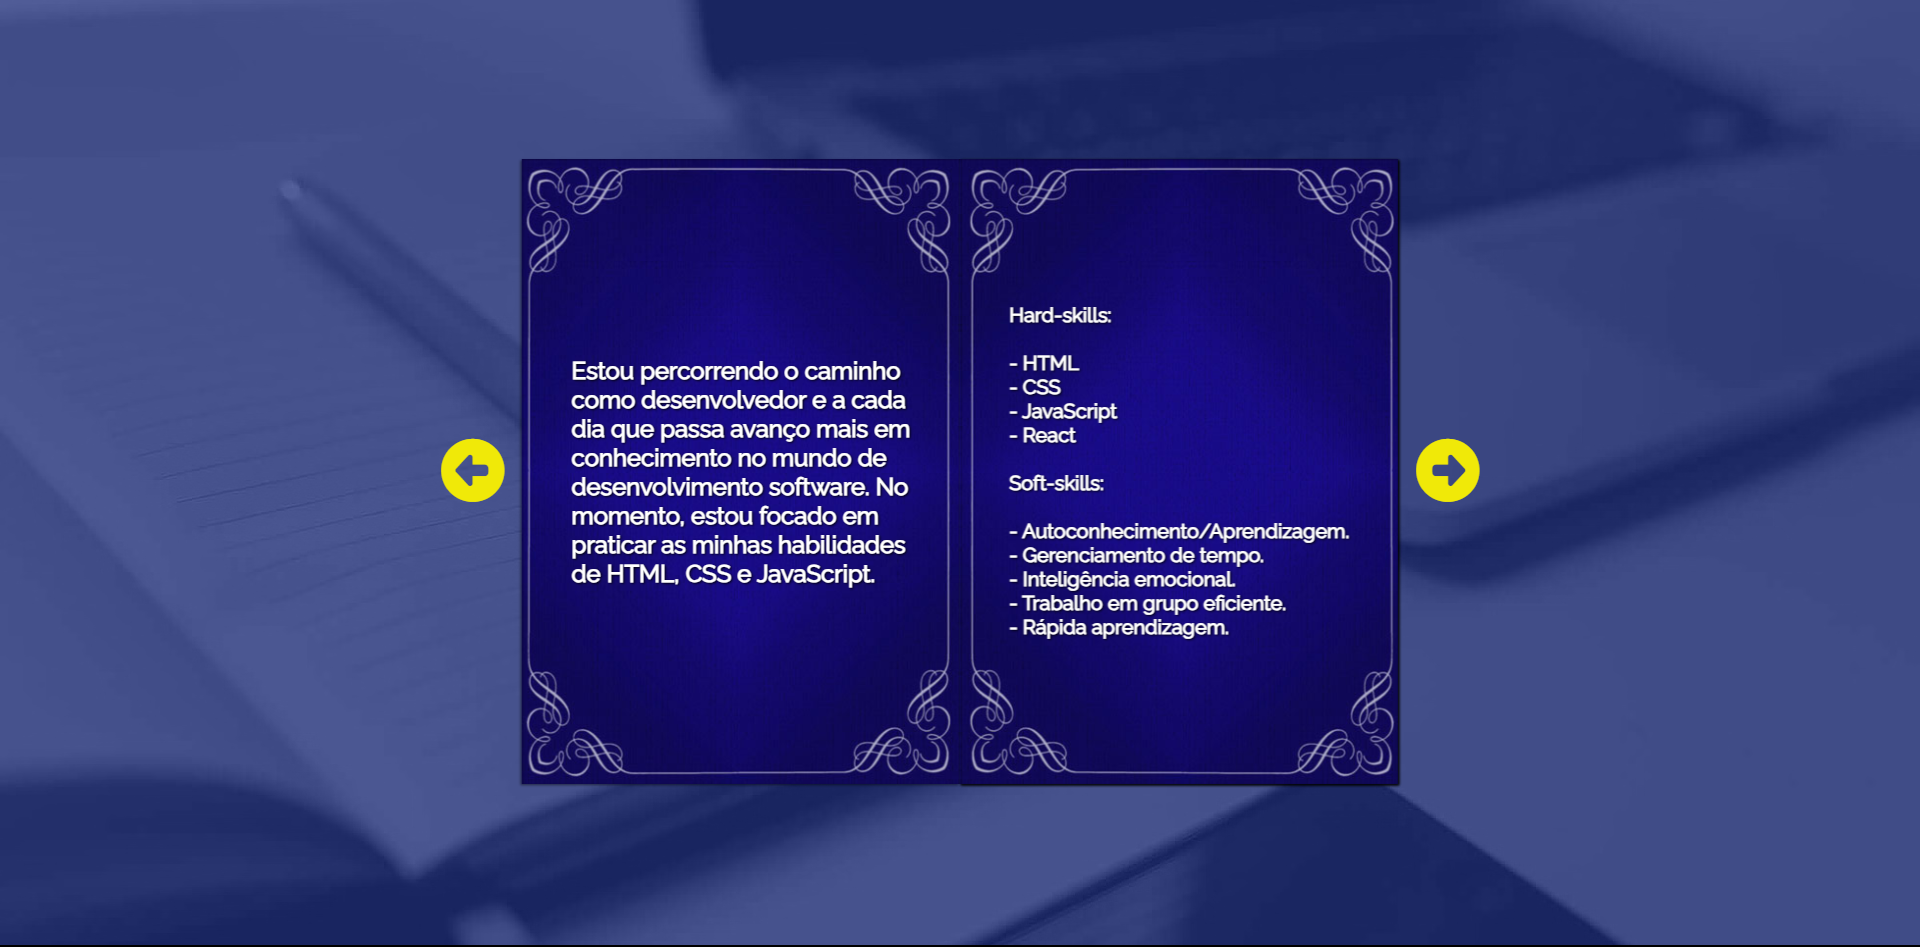
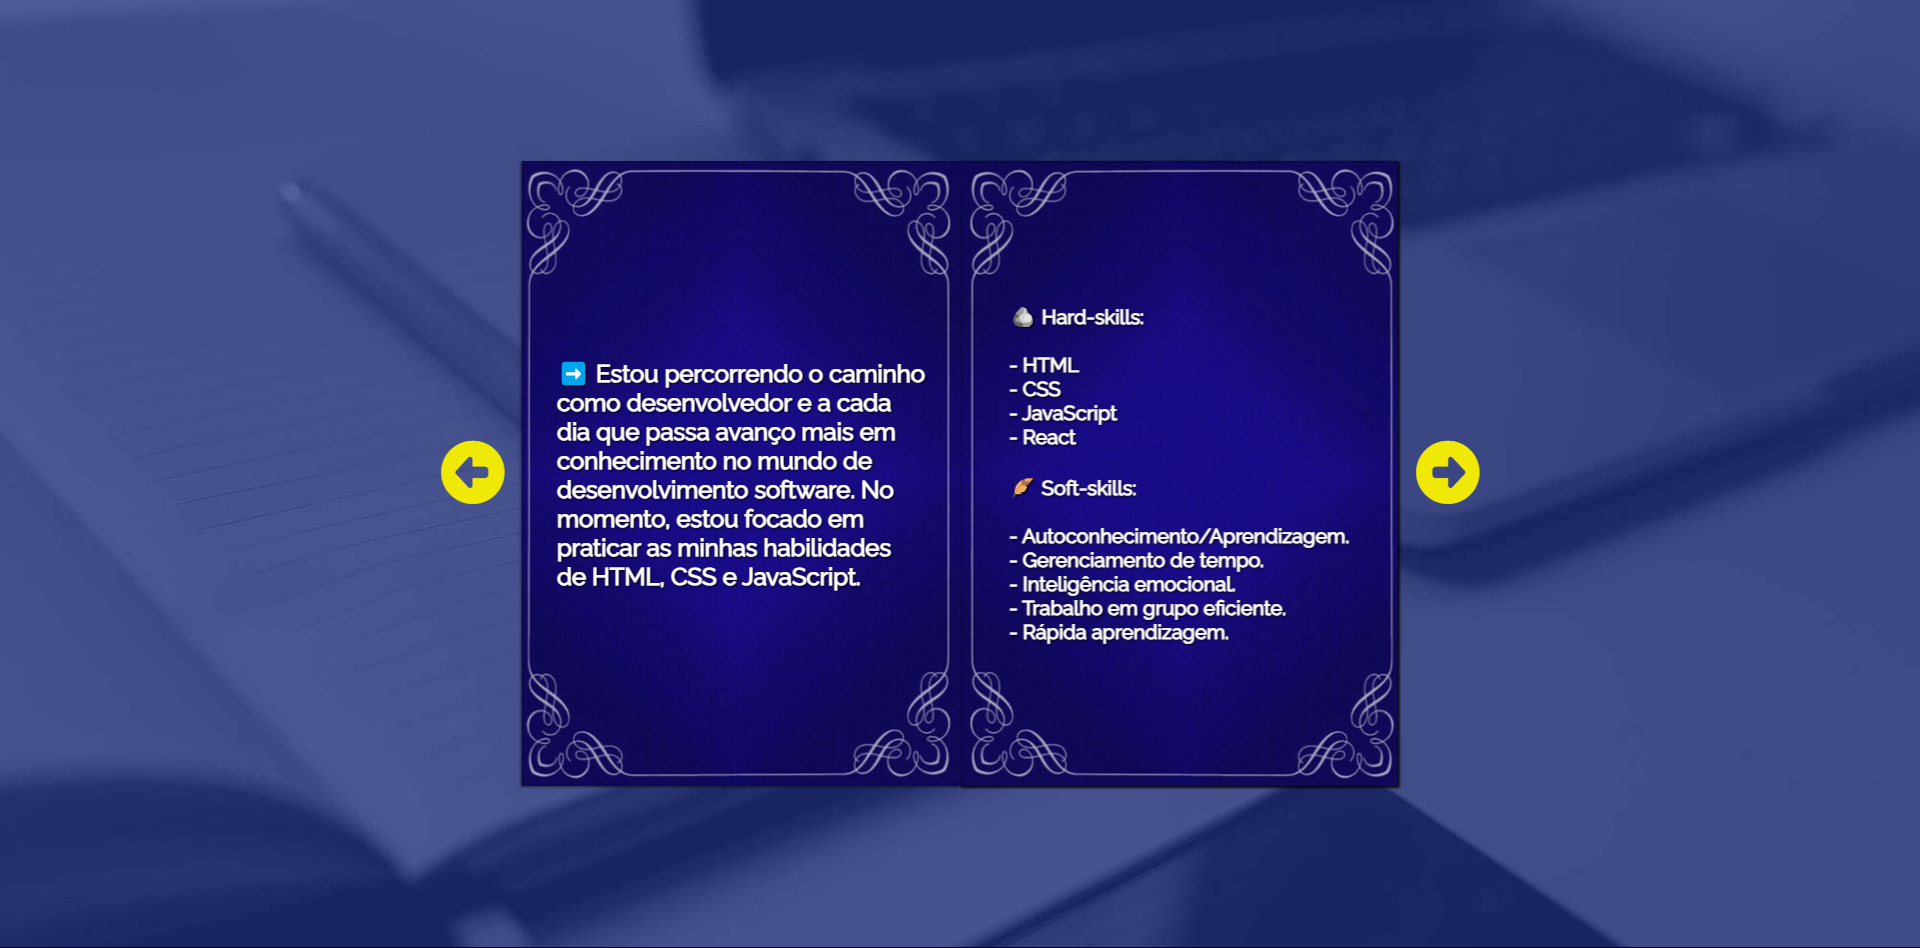
195º dia de CTD - Modificações das Imagens e HTML.

diff --git a/index.html b/index.html
@@ -41,7 +41,7 @@
                     <h1>➡ Estou percorrendo o caminho<br> como
                         desenvolvedor e a cada<br> dia que 
                         passa avanço mais em<br>conhecimento
-                        no mundo de<br> desenvolvimento software. 
+                        no mundo do<br> desenvolvimento de software. 
                         No<br> momento, estou focado em<br> 
                         praticar as minhas habilidades<br> 
                         de HTML, CSS e JavaScript.<br></h1>                    
